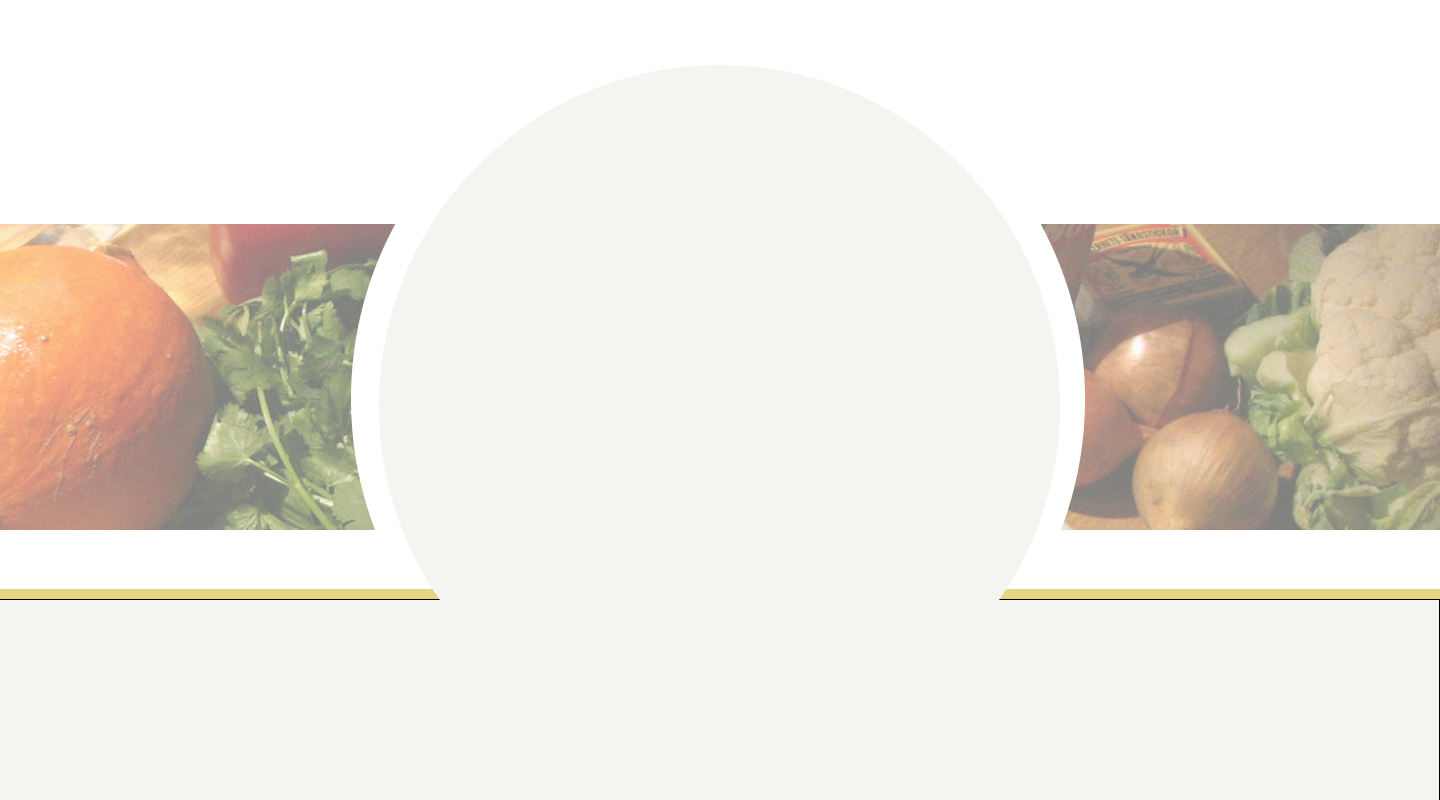
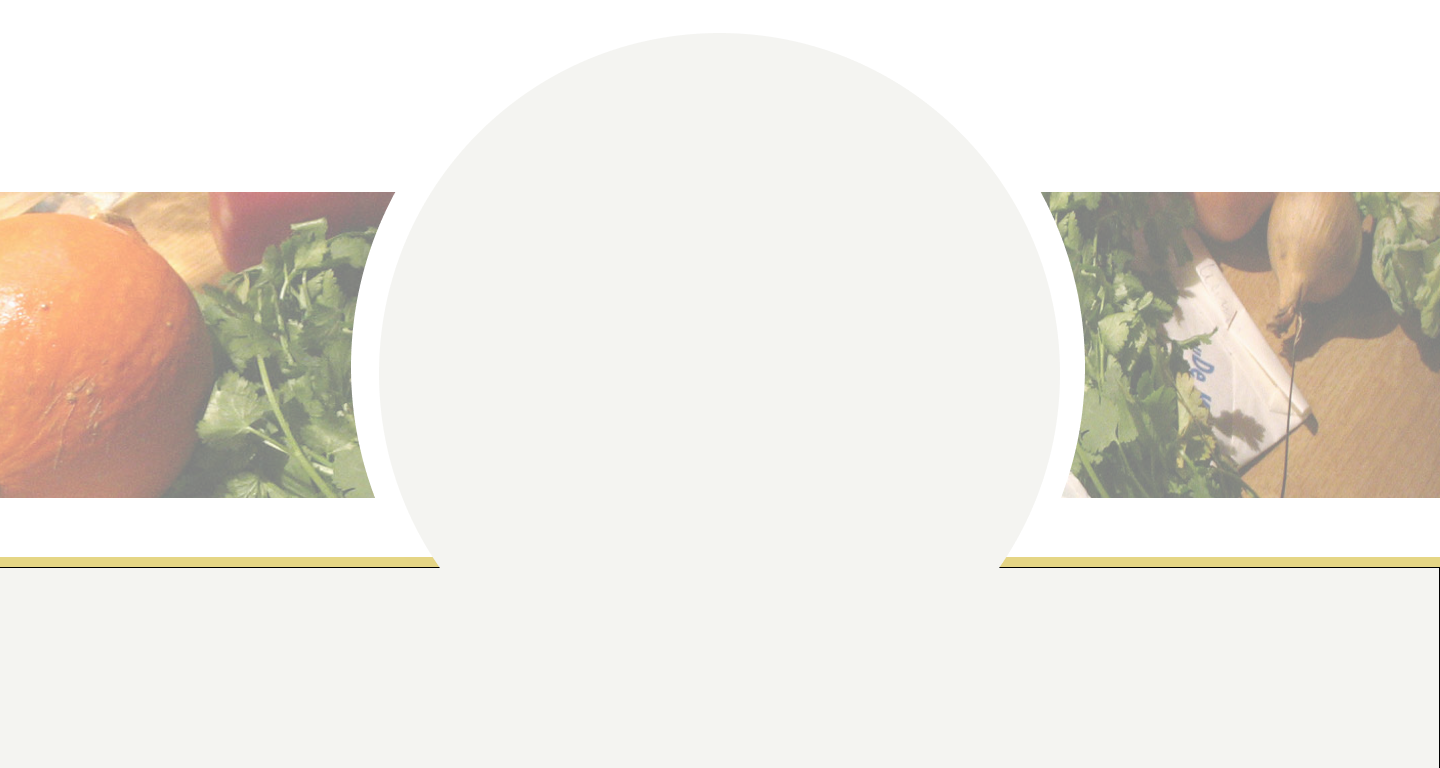
fixed margin for bg

diff --git a/static/front-end/uploadImage.js b/static/front-end/uploadImage.js
@@ -18,6 +18,7 @@ $(function () {
                 });
 
                 reader.readAsDataURL(img);
+                document.body.style.backgroundImage = "url('../static/bg_upload.png')";
                 searchRecipe();
             } else {
                 previewImage.style.display = "null";
